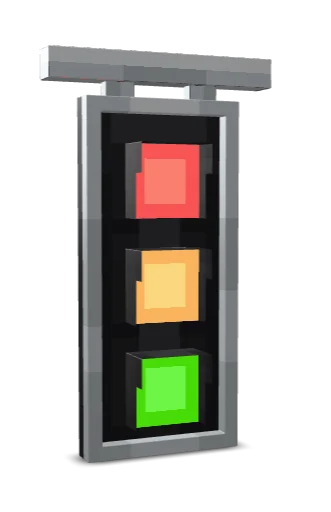
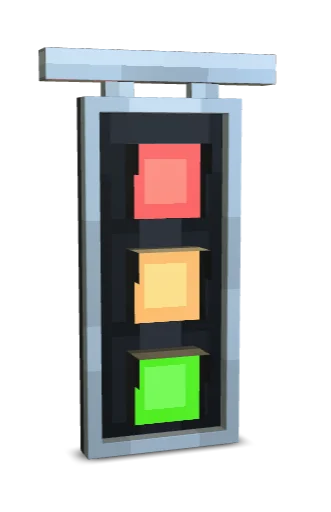
Update

Changed region(s): [[0.0906, 0.0625, 0.8459, 0.9375]]

diff --git a/index.html b/index.html
@@ -9,7 +9,7 @@
   </head>
   <body>
     <!-- <model-viewer> HTML element -->
-    <model-viewer src="Traffic Light.glb" ar ar-modes="webxr scene-viewer quick-look" camera-controls poster="poster.webp" shadow-intensity="2" tone-mapping="commerce" environment-image="legacy" camera-orbit="-228.2deg 86.59deg 6.408m" field-of-view="30deg" exposure="1" auto-rotate>
+    <model-viewer src="Traffic Light.glb" ar ar-modes="webxr scene-viewer quick-look" camera-controls poster="poster.webp" shadow-intensity="2" camera-orbit="-19.33deg 83.13deg 6.408m" field-of-view="30deg" exposure="1" environment-image="aircraft_workshop_01_1k.hdr" shadow-softness="1" tone-mapping="commerce" min-camera-orbit="auto auto 6.408m" min-field-of-view="30deg" auto-rotate>
       <div class="progress-bar hide" slot="progress-bar">
           <div class="update-bar"></div>
       </div>
